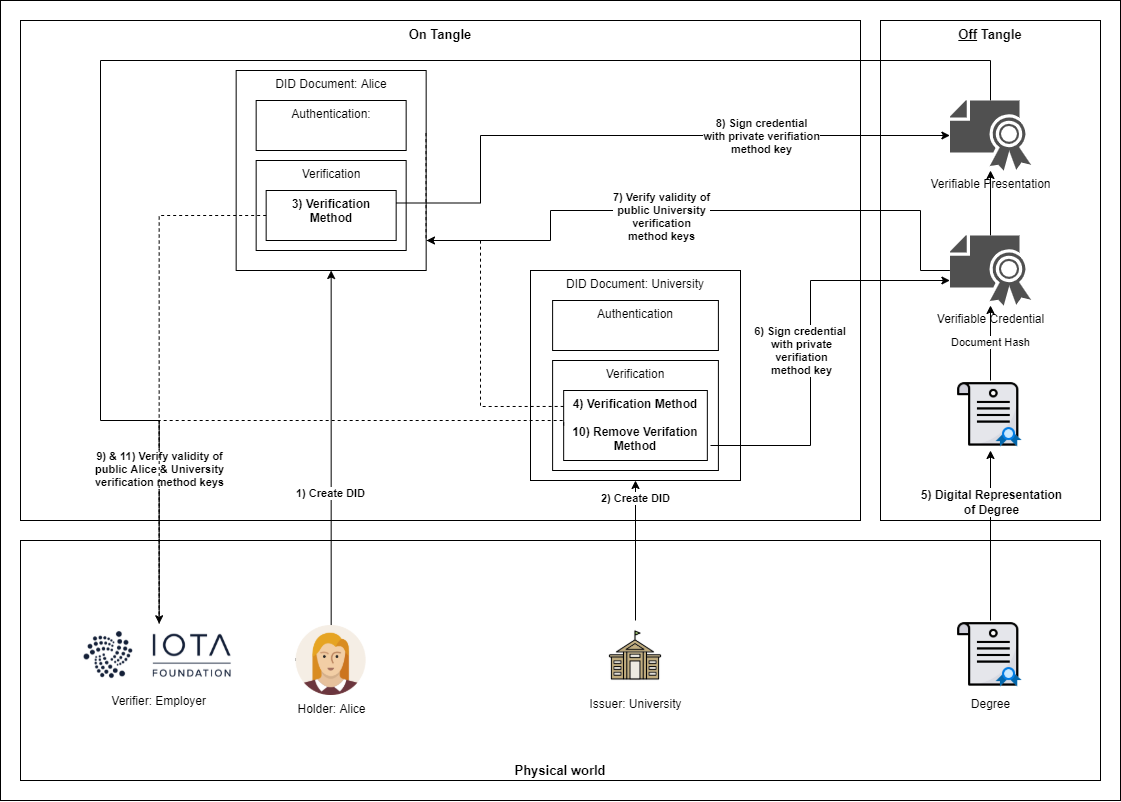
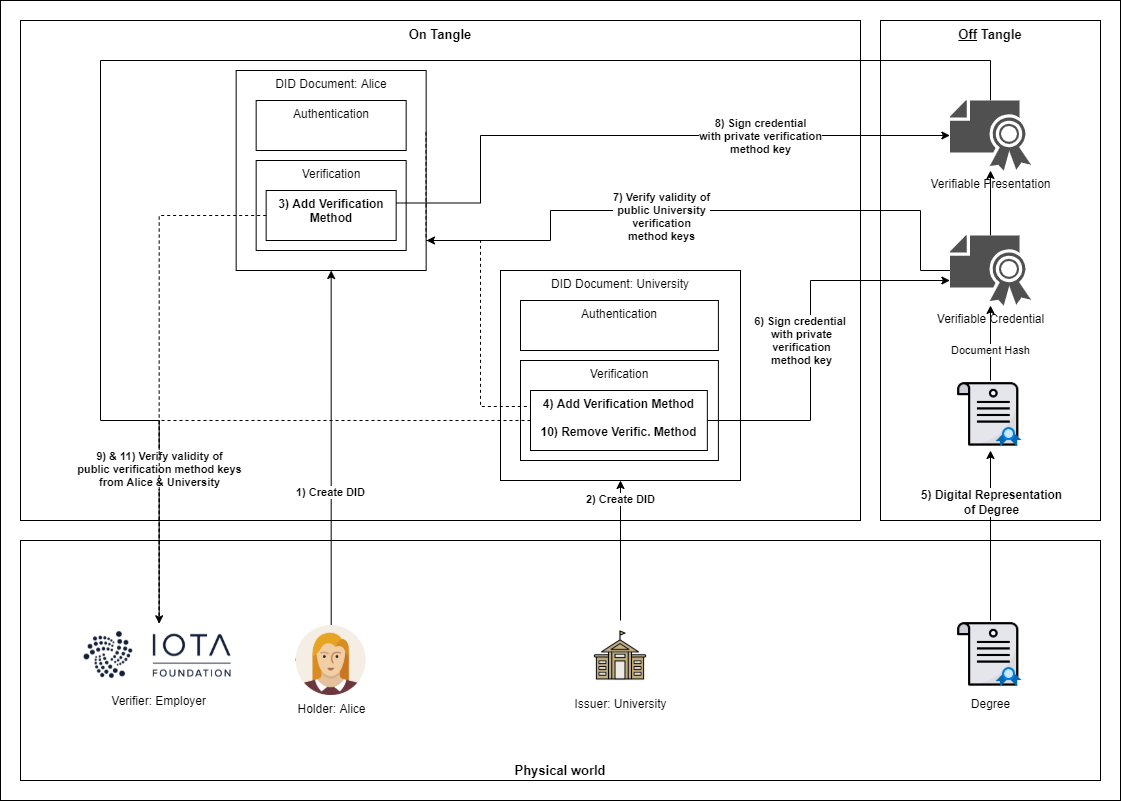
Add term definitions & fix typos

diff --git a/README.md b/README.md
@@ -10,6 +10,18 @@ As described [here](https://www.iota.org/solutions/digital-identity), IOTA Ident
 - Issuer (University of Oslo)
 - Verifier (IOTA Foundation)
 
+### Terms
+|Term   | Definition    |
+|:---   |:---           |
+| [Decentralized Identifier (DID)](https://www.w3.org/TR/did-core/#dfn-decentralized-identifiers) |A globally unique persistent identifier that does not require a centralized registration authority and is often generated and/or registered cryptographically.|
+| [DID Subject](https://www.w3.org/TR/did-core/#dfn-did-subjects)          |The entity identified by a DID and described by a DID document. Anything can be a DID subject: person, group, organization, physical thing, digital thing, logical thing, etc.  |
+| [DID Document](https://www.w3.org/TR/did-core/#dfn-did-documents)          |A set of data describing the DID subject, including mechanisms, such as cryptographic public keys, that the DID subject or a DID delegate can use to authenticate itself and prove its association with the DID  |
+| [Verification Method](https://www.w3.org/TR/did-core/#dfn-verification-method)   |A set of parameters that can be used together with a process to independently verify a proof. For example, a cryptographic public key can be used as a verification method with respect to a digital signature; in such usage, it verifies that the signer possessed the associated cryptographic private key. |
+| [Verifiable Credential](https://www.w3.org/TR/did-core/#dfn-verifiable-credentials) | A standard data model and representation format for cryptographically-verifiable digital credentials. It is signed by the issuer, to prove control over the Verifiable Credential with a nonce or timestamp. |
+| Verifiable Presentation | A Verifiable Presentation is the format in which a (collection of) Verifiable Credential(s) gets shared. It is signed by the subject, to prove control over the Verifiable Credential with a nonce or timestamp. |
+| [DID Resolution](https://www.w3.org/TR/did-core/#dfn-did-resolution)  | The process that takes as its input a DID and a set of resolution options and returns a DID document in a conforming representation plus additional metadata.  |
+
+### Flow-Chart
 ![banner](./Identity_Tutorial_Chart.png)
 
 ### Key Storage
@@ -127,7 +139,7 @@ In this process, you will complete the different steps from the perspective of o
         holderVerificationMethod,
         signedVcPath);
     ```
-9. **Verifier:** Verify Alice's and the University's signatures with their respective public keys
+9. **Verifier:** The IOTA Foundation verfies Alice's and the University's signatures with their respective public keys
     - [checkVerifiablePresentation.js](checkVerifiablePresentation.js)
     ```javascript
     let signedVpPath = './signedCredentials/signedVP.json';
@@ -146,7 +158,7 @@ In this process, you will complete the different steps from the perspective of o
         KeyPair.fromJSON(issuer.authKey),
         verifiactionMethodName);
     ```
-11. **Verifier:** Verify Alice's and the University's signatures again and see the University revoked their verification
+11. **Verifier:** The IOTA Foundation verifies Alice's and the University's signatures again and finds out that the University revoked their verification
     - [checkVerifiablePresentation.js](checkVerifiablePresentation.js)
     ```javascript
     let signedVpPath = './signedCredentials/signedVP.json';
